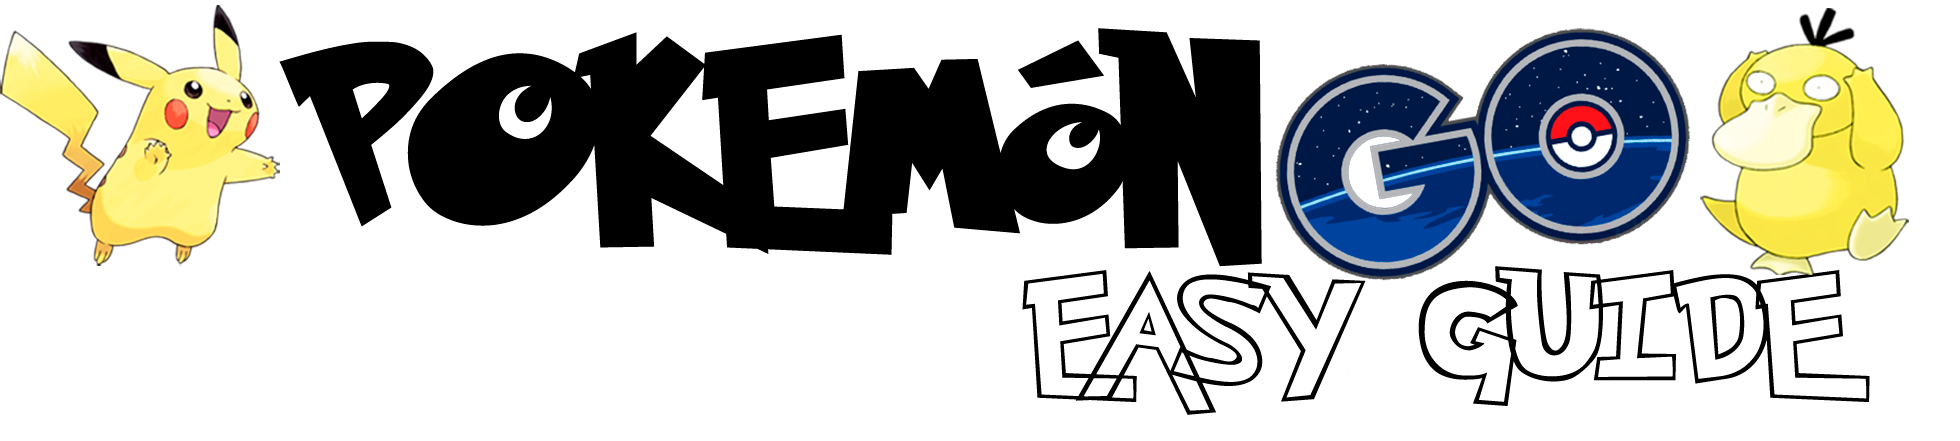
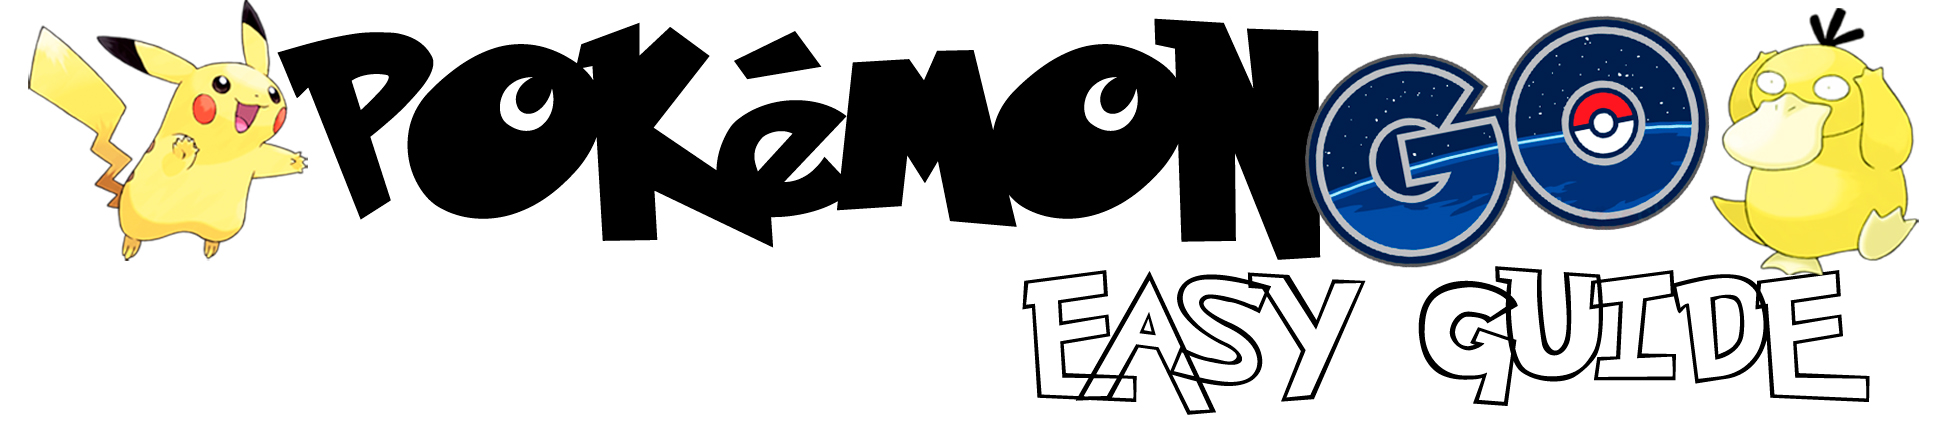
correccion imagenes, html, css

Changed region(s): [[0.0, 0.0, 0.9959, 0.6485], [0.2801, 0.5306, 0.3423, 0.5601]]

diff --git a/src/index.html b/src/index.html
@@ -1,6 +1,5 @@
 <!DOCTYPE html>
-<html>
-
+<html lang="en">
 <head>
   <meta name="viewport" content="width=device-width, initial-scale=1.0" />
   <meta http-equiv="X-UA-Compatible" content="ie=edge" />
@@ -15,23 +14,23 @@
   <div class="container">
     <header>
       <div class="logo">
-        <a href="index.html"><img src="img/HeaderPK-2.jpg" width="" alt=""></a>
+        <a href="index.html"><img src="img/HeaderPK-2.jpg"></a>
       </div>
     </header>
 
-    <section class="main">
-
+    <div class="main">
+      <h3>Pokémon de la región de Kanto</h3>
       <div id="root"></div>
-    </section>
+    </div>
 
     <aside>
       <div class="caption">
-        <span>Pokemón GO Easy Guide una página exclusiva con los 151 pokemón
+        <span>Pokémon GO Easy Guide una página exclusiva con los 151 pokemón
           de la región de Kanto. Buscalos por tipo, huevos, debilidades y conoce
           estadísticas en esta: la guía fácil para jugadores de Pokemón GO</span>
       </div>
 
-      <h4>Escoge como ver los Pokemón</h4>
+      <h4>Escoge como ver los Pokémon</h4>
       <select class="styleSelect" id="pokeOrder">
         <option value="order">Ordenar por</option>
         <option value="ascendantAZ">A - Z</option>
@@ -93,8 +92,8 @@
     </aside>
 
     <footer>
-      <section class="links">
-        <a href="https://pokemongolive.com/es/" target="_blank">Sitio Pokemon GO Oficial</a>
+      <section class="links"><h4>Sigue a</h4>
+        <a href="https://pokemongolive.com/es/" target="_blank">Pokémon GO Oficial</a>
       </section>
 
       <div class="social">

diff --git a/src/main.js b/src/main.js
@@ -3,10 +3,7 @@ let selectPokeType = document.getElementById("pokeType");
 let selectPokeEgg = document.getElementById("pokeEgg");
 let selectPokeOrder = document.getElementById("pokeOrder");
 let selectPokeWeakness = document.getElementById("pokeWeakness");
-let pokeTypeValue;
-let pokeEggValue;
-let pokeOrderValue;
-let pokeWeaknessValue;
+let pokeTypeValue, pokeEggValue, pokeOrderValue, pokeWeaknessValue;
 
 //Se llama a la función mostrar para mostrar todos los pokemon desde que se carga la página
 showPokemon(dataPokemon.pokemon);
@@ -160,7 +157,6 @@ selectPokeEgg.addEventListener("change", () => {
 
     //Indica que el div de clase average debe ser mostrado en el div de id averagePoke creado en el HTML
     document.getElementById("averagePoke").appendChild(divAverage).innerHTML;
-console.log(resultEgg);
     //Llama a la función que muestra a los pokemon enviandole la data ya filtrada
     showPokemon(resultEgg);
 });

diff --git a/src/style.css b/src/style.css
@@ -16,10 +16,10 @@
 }
 
 body {
-	background-image: url("img/pokeball-pix.jpg");
+	background-image: url("img/pokeball-8-bit.jpg");
 	background-attachment: fixed;
 	background-repeat: repeat;
-	background-color:#f2f2f2;
+	background-color:hsla(0, 0%, 95%, 0.918);
 	font-family: 'Rubik', sans-serif;
 }
 
@@ -52,9 +52,16 @@ header .logo a {
 	text-decoration: none;
 	line-height:50px;
 }
+
+h3 {
+	margin-bottom: 20px;
+}
+
 h4, h5 {
 	margin-top: 2%;
+	margin-bottom: 5px;
 }
+
 .main {
 	background:#fffffc;
 	width:60%;
